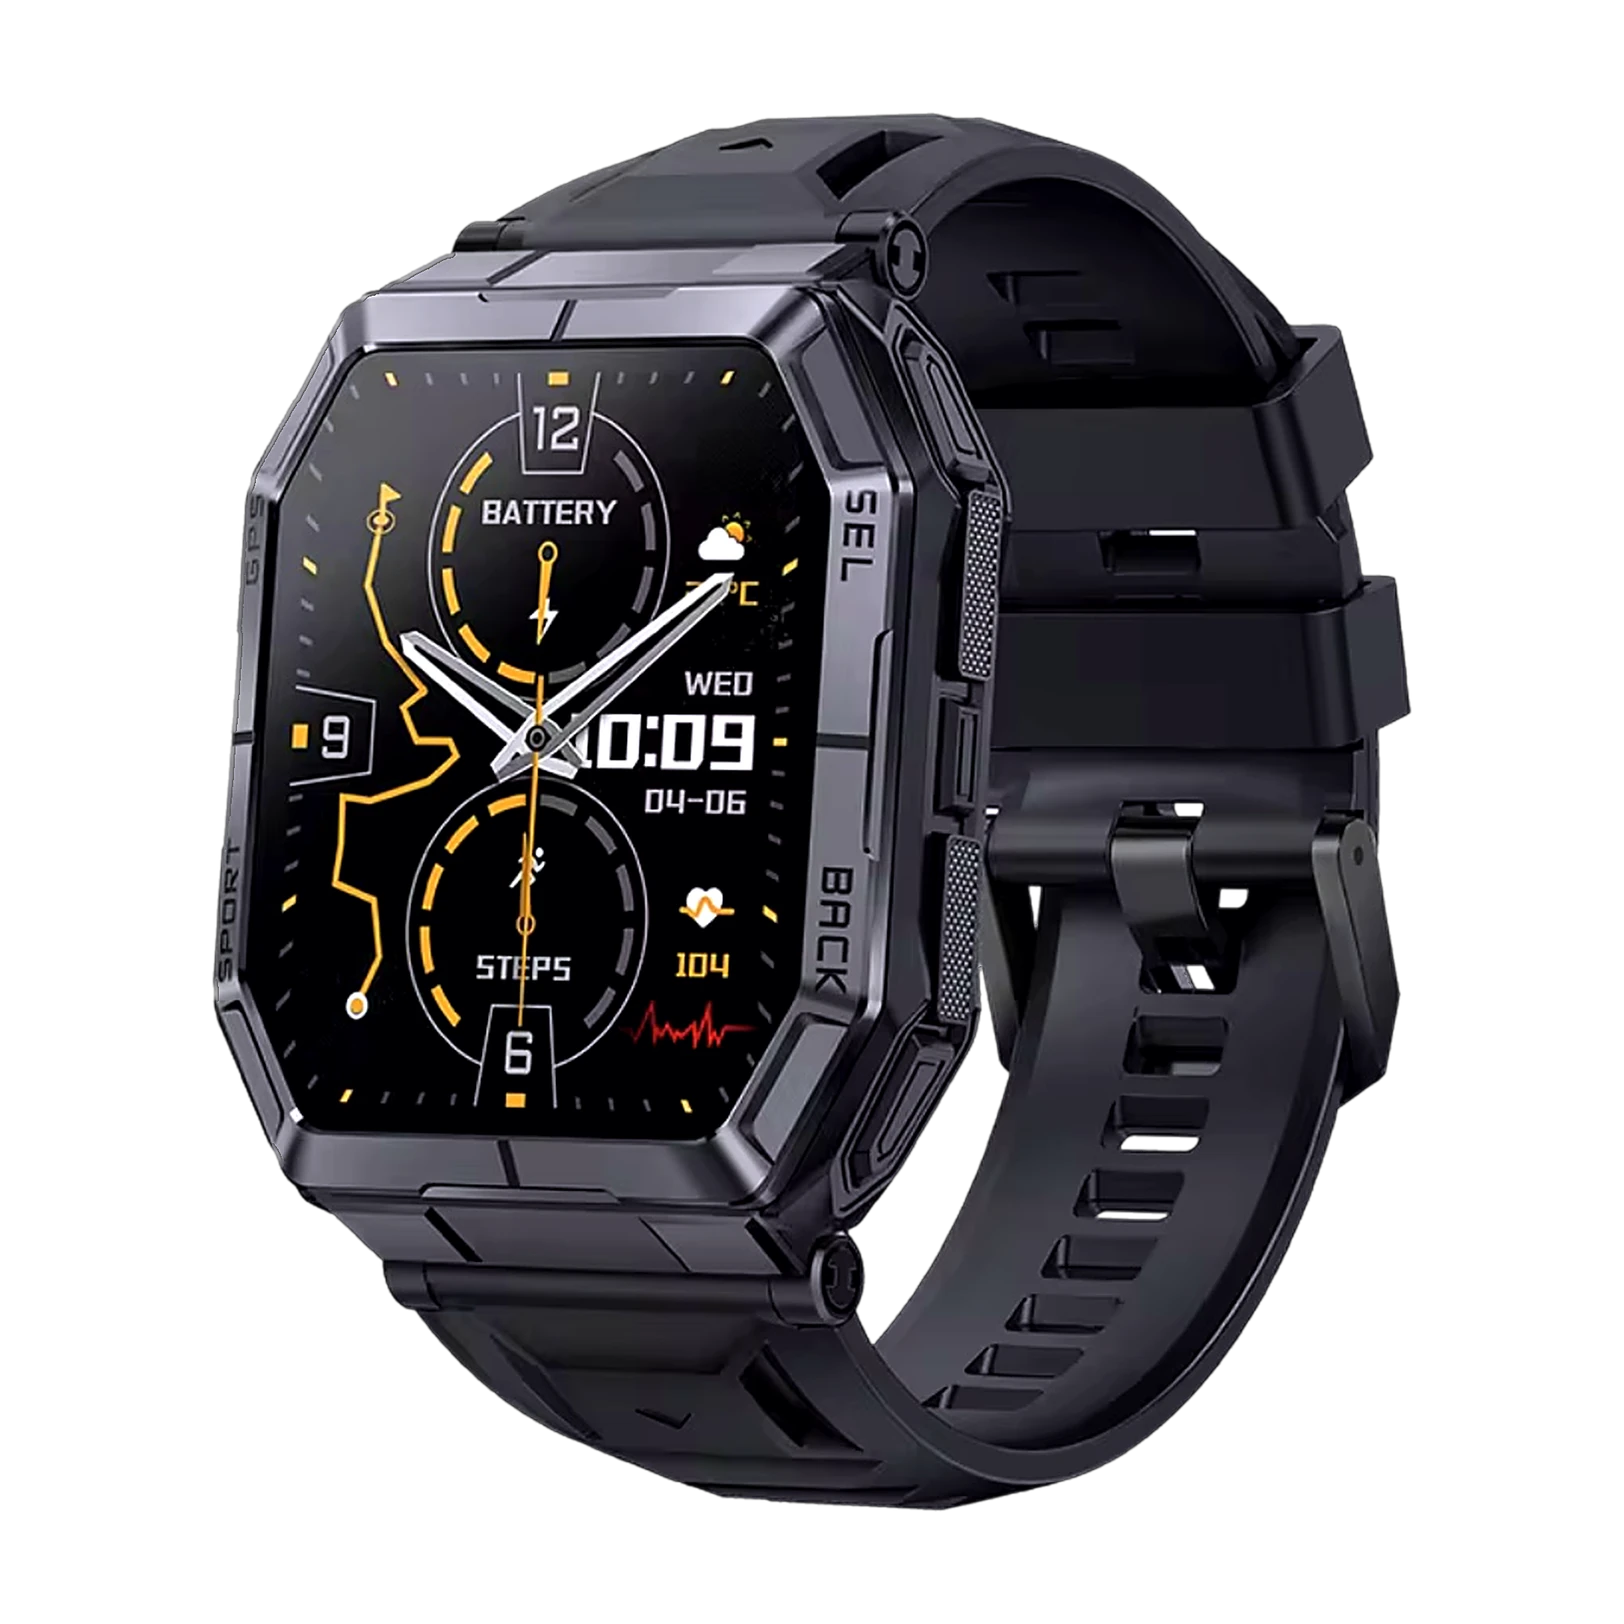
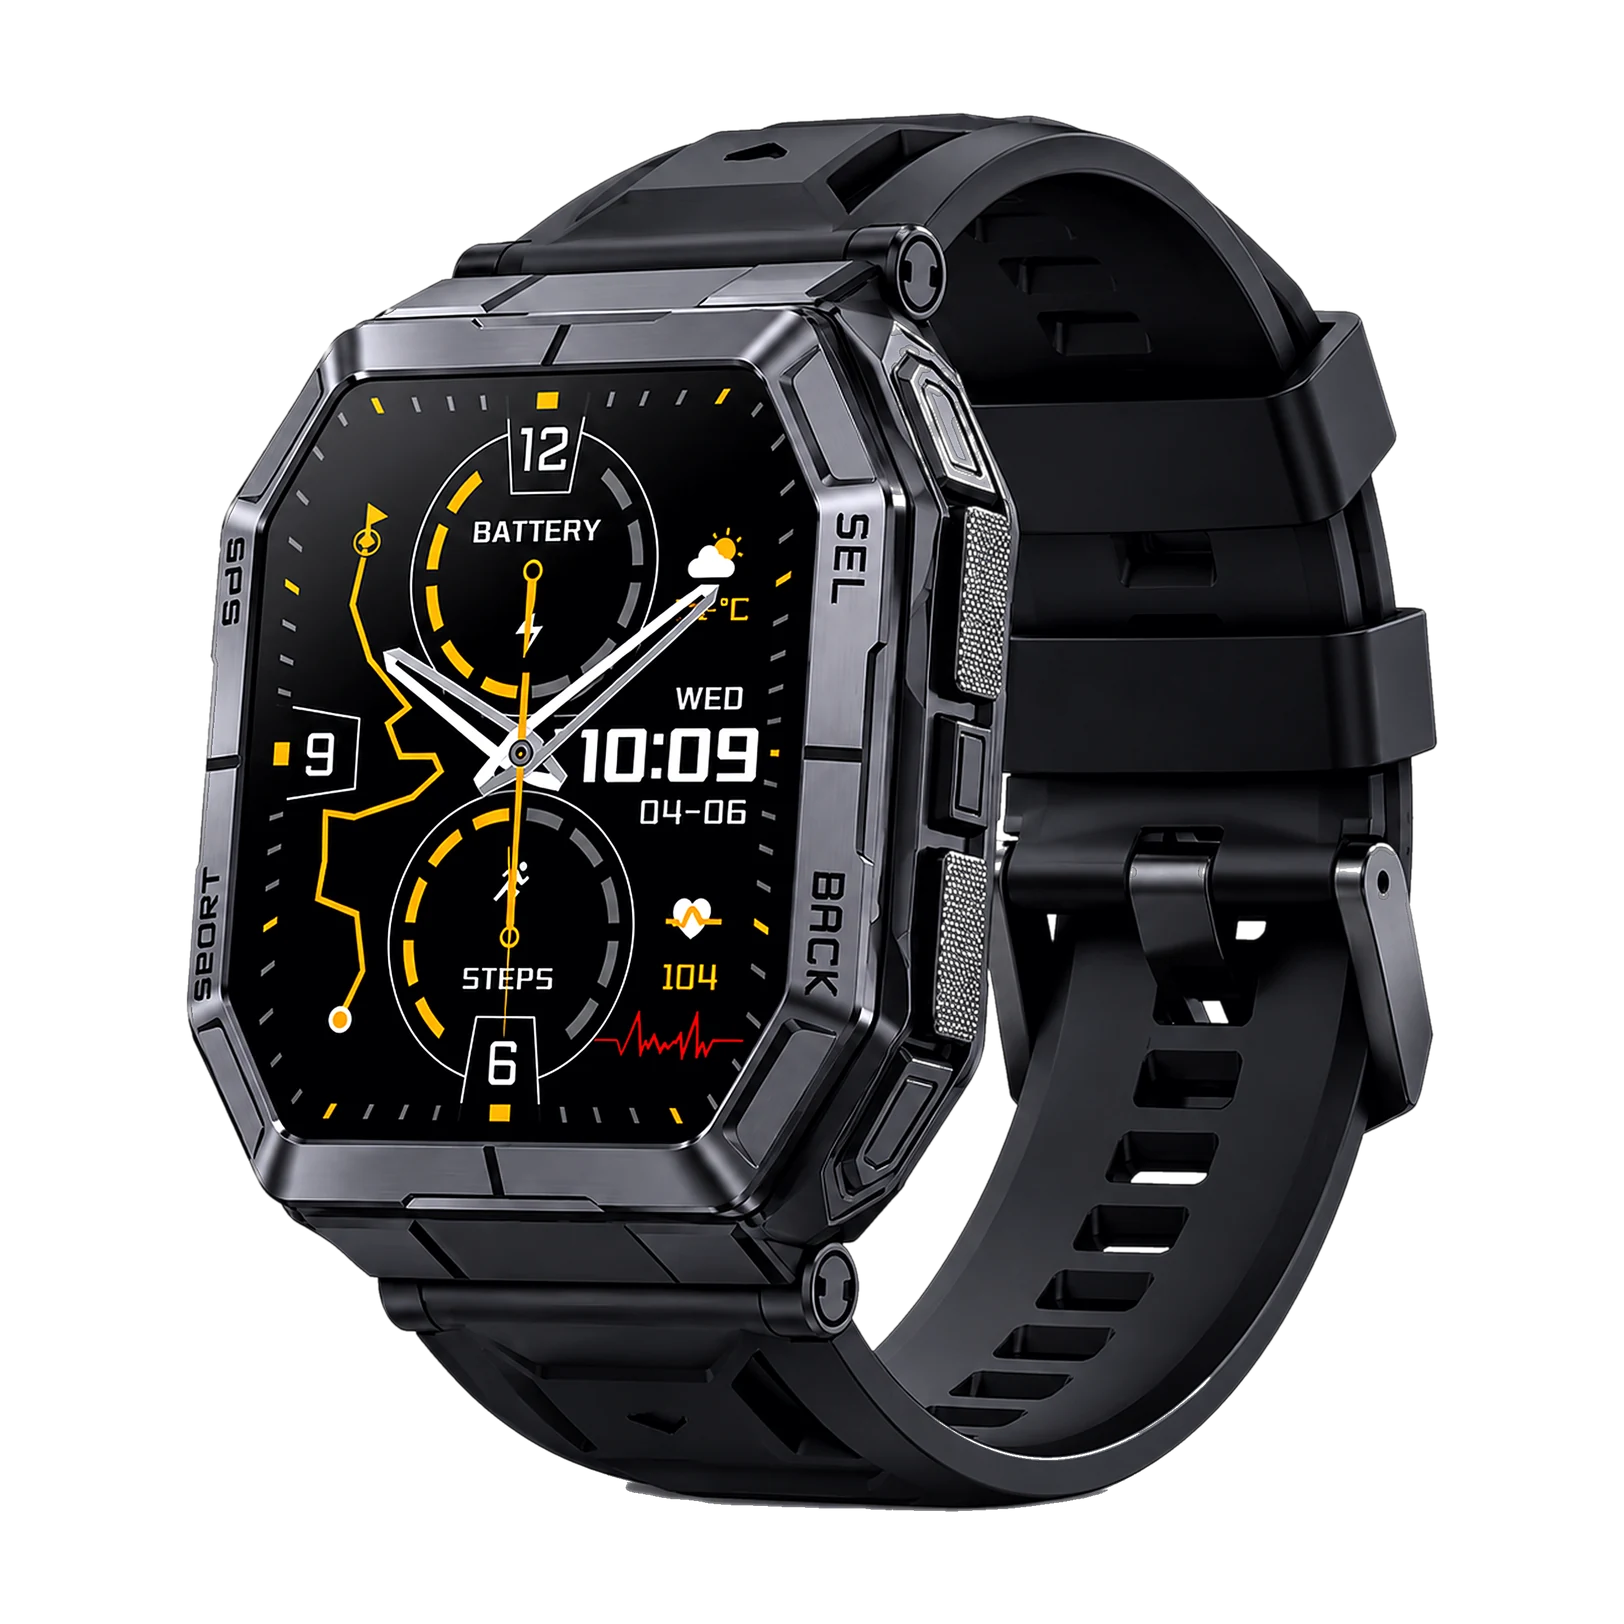
Add the five new Trekon photos with a clickable gallery
New studio shots (angle, front, display close-up, side, back) cut out for
the dark page, with factory marks removed from the back. The product page
gets a thumbnail row that fades the big photo over; extra photos load
only when opened so the first one still paints quickly.

Claude-Session: https://claude.ai/code/session_0131Ey9WtYzRJWk6AUwA1R6u

Changed region(s): [[0.0924, 0.0616, 0.8929, 0.9544], [0.6466, 0.1847, 0.6773, 0.2155], [0.6158, 0.1539, 0.6466, 0.1847]]

diff --git a/components/PdpGallery.tsx b/components/PdpGallery.tsx
@@ -1,0 +1,77 @@
+"use client";
+
+import { useState } from "react";
+import type { Product } from "@/lib/products";
+import ProductImage from "./ProductImage";
+
+// Product photos: a big picture plus a row of thumbnails. Tapping a
+// thumbnail fades the big picture over to that photo.
+export default function PdpGallery({ product }: { product: Product }) {
+  const [active, setActive] = useState(0);
+  // Only photos someone has opened are loaded, so the first one paints fast.
+  const [seen, setSeen] = useState<number[]>([0]);
+  const count = product.images.length;
+
+  return (
+    <div className={`pdp-gallery${seen.length > 1 ? " fx" : ""}`}>
+      <div className="pdp-main">
+        {product.badge && <span className="badge">{product.badge}</span>}
+        {count === 0 ? (
+          <ProductImage
+            product={product}
+            priority
+            sizes="(max-width: 900px) 100vw, 50vw"
+          />
+        ) : (
+          product.images.map((src, i) =>
+            seen.includes(i) ? (
+              <div
+                key={src}
+                className={`pdp-slide${i === active ? " on" : ""}`}
+                aria-hidden={i !== active || undefined}
+              >
+                <ProductImage
+                  product={product}
+                  index={i}
+                  priority={i === 0}
+                  sizes="(max-width: 900px) 100vw, 50vw"
+                />
+              </div>
+            ) : null,
+          )
+        )}
+      </div>
+      {count > 1 && (
+        <div
+          className="pdp-thumbs"
+          style={{ gridTemplateColumns: `repeat(${Math.max(4, count)}, 1fr)` }}
+        >
+          {product.images.map((src, i) => (
+            <button
+              key={src}
+              type="button"
+              className={i === active ? "thumb active" : "thumb"}
+              aria-label={`Show photo ${i + 1} of ${count}`}
+              aria-pressed={i === active}
+              onClick={() => {
+                setActive(i);
+                setSeen((v) => (v.includes(i) ? v : [...v, i]));
+              }}
+            >
+              <ProductImage product={product} index={i} sizes="120px" alt="" />
+            </button>
+          ))}
+        </div>
+      )}
+      {count === 0 && (
+        <div className="pdp-thumbs">
+          {[0, 1, 2].map((i) => (
+            <div key={i} className={i === 0 ? "thumb active" : "thumb"}>
+              <ProductImage product={product} sizes="120px" />
+            </div>
+          ))}
+        </div>
+      )}
+    </div>
+  );
+}

diff --git a/app/product/[slug]/page.tsx b/app/product/[slug]/page.tsx
@@ -12,6 +12,7 @@ import ScrollStory from "@/components/ScrollStory";
 import CountUp from "@/components/CountUp";
 import Reveal from "@/components/Reveal";
 import Showcase from "@/components/Showcase";
+import PdpGallery from "@/components/PdpGallery";
 
 type Props = { params: Promise<{ slug: string }> };
 
@@ -55,9 +56,6 @@ export default async function ProductPage({ params }: Props) {
   const product = getProduct((await params).slug);
   if (!product) notFound();
   const related = products.filter((p) => p.slug !== product.slug).slice(0, 4);
-  // Real photos: one thumbnail per photo (none if there is only one).
-  // Placeholder drawing: three thumbnails so the layout looks complete.
-  const thumbs = product.images.length ? (product.images.length > 1 ? product.images.length : 0) : 3;
   const category = categories.find((c) => c.id === product.category);
   const url = absoluteUrl(`/product/${product.slug}`);
   // Specs grouped by their `group` (in first-seen order); ungrouped ones share "".
@@ -139,21 +137,7 @@ export default async function ProductPage({ params }: Props) {
       </nav>
 
       <div className="pdp">
-        <div className="pdp-gallery">
-          <div className="pdp-main">
-            {product.badge && <span className="badge">{product.badge}</span>}
-            <ProductImage product={product} priority sizes="(max-width: 900px) 100vw, 50vw" />
-          </div>
-          {thumbs > 0 && (
-            <div className="pdp-thumbs">
-              {Array.from({ length: thumbs }).map((_, i) => (
-                <div key={i} className={i === 0 ? "thumb active" : "thumb"}>
-                  <ProductImage product={product} index={i} sizes="120px" />
-                </div>
-              ))}
-            </div>
-          )}
-        </div>
+        <PdpGallery product={product} />
 
         <div className="pdp-info">
           <p className="eyebrow">{category?.name ?? product.category} smartwatch</p>

diff --git a/app/globals.css b/app/globals.css
@@ -731,6 +731,50 @@ h3 {
   border-color: var(--blue);
 }
 
+button.thumb {
+  cursor: pointer;
+  transition: border-color 0.2s ease, background-color 0.2s ease;
+}
+
+button.thumb:hover {
+  border-color: rgba(82, 133, 247, 0.6);
+}
+
+button.thumb.active {
+  box-shadow: 0 0 0 1px var(--blue), 0 10px 30px -12px rgba(82, 133, 247, 0.8);
+}
+
+button.thumb:focus-visible {
+  outline: 2px solid #5fd6d0;
+  outline-offset: 2px;
+}
+
+/* Stacked photos in the big picture; the chosen one fades in */
+.pdp-slide {
+  position: absolute;
+  inset: 0;
+  opacity: 0;
+  transform: scale(0.97);
+  transition: opacity 0.45s ease, transform 0.6s cubic-bezier(0.2, 0.7, 0.2, 1);
+}
+
+.pdp-slide.on {
+  opacity: 1;
+  transform: none;
+}
+
+/* Fade only after the first tap, so the first photo shows instantly */
+.fx .pdp-slide.on {
+  animation: slide-in 0.5s cubic-bezier(0.2, 0.7, 0.2, 1);
+}
+
+@keyframes slide-in {
+  from {
+    opacity: 0;
+    transform: scale(0.97);
+  }
+}
+
 .pdp-info h1 {
   font-size: clamp(2rem, 4.5vw, 3rem);
 }
@@ -2200,3 +2244,7 @@ h3 {
   font-size: 2rem;
 }
 
+
+.pdp-main .badge {
+  z-index: 2;
+}

diff --git a/lib/products.ts b/lib/products.ts
@@ -63,9 +63,19 @@ export const products: Product[] = [
     price: 120,
     category: "tactical",
     badge: "New",
-    images: ["/products/matin-trekon-rugged-smartwatch.webp"],
+    images: [
+      "/products/matin-trekon-rugged-smartwatch.webp",
+      "/products/matin-trekon-front-view.webp",
+      "/products/matin-trekon-amoled-display-closeup.webp",
+      "/products/matin-trekon-side-buttons.webp",
+      "/products/matin-trekon-heart-rate-sensor-back.webp",
+    ],
     imageAlts: [
       'MATIN Trekon rugged GPS smartwatch in black with a 1.95" AMOLED tactical watch face and silicone strap',
+      "MATIN Trekon rugged smartwatch front view with octagonal armoured case and black silicone strap",
+      'Close-up of the MATIN Trekon 1.95" AMOLED display showing time, battery, steps and heart rate',
+      "MATIN Trekon side view showing the SEL and BACK buttons and textured grip keys",
+      "Back of the MATIN Trekon with heart rate sensor and magnetic charging pins",
     ],
     shareImage: "/products/matin-trekon-share.jpg",
     colors: [{ name: "Stealth Black", hex: "#1c1f26" }],
